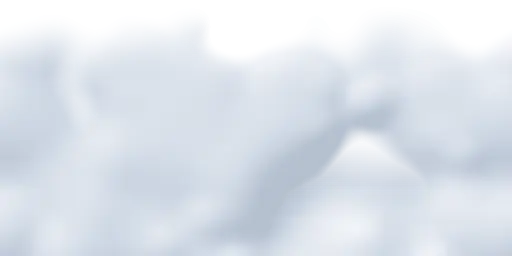
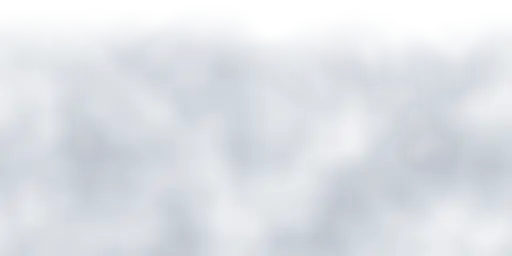
Путь: туман — серый клубящийся дым как в PvZ, без бугорков, в обеих темах

diff --git a/SPEC.md b/SPEC.md
@@ -339,7 +339,7 @@
 - 2026-10-19 — Звук нижних вкладок — по отпусканию пальца (pointerup), а не по click: вкладка переключается при касании, и iPhone иногда не присылал click (звука не было на «Пути», «Словах», «Профиле»). В форме слова клавиша клавиатуры — синяя галочка «Готово», она убирает клавиатуру (как в форме колоды); подсказка «Автозаполнить контакт» выключена.
 - 2026-10-19 — «Пары» — после того как в уроке встретились 5 разных слов, не раньше 60% урока; слова — только из этого урока. Точность в итоге — только по заданиям с оценкой FSRS; серия «N ПОДРЯД» считает и лёгкое задание.
 - 2026-10-19 — Путь (этап 7), решение владельца: **сначала повторения, потом новые** (как в Anki, чтобы не копились долги). Пока есть повторения к сроку (повторения на сегодня в пределах лимита и слова в обучении, чьё время пришло), новые слова узла не открываются: всплывашка текущего узла пишет «Сначала повтори N слов» и даёт кнопку «ПОВТОРИТЬ». Когда сделаны — урок узла: его новые слова первыми, повторения — на оставшееся место урока. В уроке узла новые слова идут в самом начале. Покрыто тестами (`src/srs/srs.test.ts`).
-- 2026-10-19 — Состояние узла пути считается по словам (`src/game/path.ts`), отдельно не хранится: пройден — у всех слов узла есть первая оценка; освоен — у всех стабильность ≥ 21 дня; текущий — первый непройденный во всём пути; остальные непройденные закрыты, пройденные после текущего остаются пройденными. Замороженные и удалённые слова в узлы не входят. Сундук — после каждого 3-го узла колоды, 10–20 💎, открытые записаны в профиле (`chestsClaimed`, ключ «колода:номер»); схема базы и бэкапа не меняется. Исчерпан дневной лимит новых — «Новые слова — завтра»; кнопка «+5 новых» — на этапе 8 вместе с экраном 6.5. Полоса сверху (🔥, 💎, кольцо цели) — этап 8. Временная кнопка «УЧИТЬ» убрана. Узлы нарезаются по текущему порядку слов: если удалить или заморозить слово из раннего узла, слова сдвигаются и узел может снова стать текущим (сундуки и прогресс слов от этого не теряются). По проверке владельца на iPhone (путь из 1–2 уроков выглядел «непонятно», сундука и кристаллов не было видно): кружки соединены дорожкой (пройденное — сплошная линия цвета колоды, впереди — точки); в конце каждого раздела — места будущих уроков «+» (нажатие — «добавь слова») и закрытый сундук-цель, так что сундук виден с первого урока; счётчик 💎 — в шапке «Пути» уже сейчас (полная полоса — этап 8). Третий заход по виду (по просьбе владельца «красивее» и «что будет при 500 уроках»): широкая тропинка, сочные узлы с бликом и сиянием, прилипающая плашка раздела, искорки; пройденные колоды выше текущей сворачиваются в плитку, над текущим — не больше 6 мест («Показать ещё»), под ним — 2 места и туман (идея владельца: пушистые облака как в Clash of Clans, без размытия и без текста; когда путь открывается — облака разъезжаются), кнопка «к текущему»; в конце раздела — один «+» и сундук-цель с номером урока. Логика окна — `src/game/pathView.ts` с тестами. Туман переделан по образцу владельца (`references/туман-PvZ.jpg`): облака-кружки убраны; клубящийся дым — готовые картинки WebP из шума (`npm run fog`), тянется до низа экрана без обрыва, «резинка» внизу пути выключена, край отступает после урока. Сундук открывается в момент касания (крышка, «+N 💎», звук), запись — следом; если записать не вышло — сундук снова закрыт, награды нет.
+- 2026-10-19 — Состояние узла пути считается по словам (`src/game/path.ts`), отдельно не хранится: пройден — у всех слов узла есть первая оценка; освоен — у всех стабильность ≥ 21 дня; текущий — первый непройденный во всём пути; остальные непройденные закрыты, пройденные после текущего остаются пройденными. Замороженные и удалённые слова в узлы не входят. Сундук — после каждого 3-го узла колоды, 10–20 💎, открытые записаны в профиле (`chestsClaimed`, ключ «колода:номер»); схема базы и бэкапа не меняется. Исчерпан дневной лимит новых — «Новые слова — завтра»; кнопка «+5 новых» — на этапе 8 вместе с экраном 6.5. Полоса сверху (🔥, 💎, кольцо цели) — этап 8. Временная кнопка «УЧИТЬ» убрана. Узлы нарезаются по текущему порядку слов: если удалить или заморозить слово из раннего узла, слова сдвигаются и узел может снова стать текущим (сундуки и прогресс слов от этого не теряются). По проверке владельца на iPhone (путь из 1–2 уроков выглядел «непонятно», сундука и кристаллов не было видно): кружки соединены дорожкой (пройденное — сплошная линия цвета колоды, впереди — точки); в конце каждого раздела — места будущих уроков «+» (нажатие — «добавь слова») и закрытый сундук-цель, так что сундук виден с первого урока; счётчик 💎 — в шапке «Пути» уже сейчас (полная полоса — этап 8). Третий заход по виду (по просьбе владельца «красивее» и «что будет при 500 уроках»): широкая тропинка, сочные узлы с бликом и сиянием, прилипающая плашка раздела, искорки; пройденные колоды выше текущей сворачиваются в плитку, над текущим — не больше 6 мест («Показать ещё»), под ним — 2 места и туман (идея владельца: пушистые облака как в Clash of Clans, без размытия и без текста; когда путь открывается — облака разъезжаются), кнопка «к текущему»; в конце раздела — один «+» и сундук-цель с номером урока. Логика окна — `src/game/pathView.ts` с тестами. Туман переделан по образцу владельца (`references/туман-PvZ.jpg`): облака-кружки убраны; по его отзыву — серый дым в обеих темах (в тёмной не тёмно-синий), без мелких бугорков; клубящийся дым — готовые картинки WebP из шума (`npm run fog`), тянется до низа экрана без обрыва, «резинка» внизу пути выключена, край отступает после урока. Сундук открывается в момент касания (крышка, «+N 💎», звук), запись — следом; если записать не вышло — сундук снова закрыт, награды нет.
 - 2026-10-18 — Напоминание о бэкапе: плашка в Профиле, пока копии нет или она старше 7 дней (и есть хотя бы одно слово); после урока — та же плашка на итоге, не чаще раза в неделю (отметка `backupNudgeAt` в профиле).
 
 ---

diff --git a/DESIGN.md b/DESIGN.md
@@ -81,7 +81,7 @@ Nunito (`@fontsource/nunito`). Заголовки 900, подзаголовки 
 - **Дорожка пути**: места (узлы, сундуки, «+») — столбиком по центру с шагом 108 (у текущего — 160, сверху место под «НАЧАТЬ»), со сдвигом вбок по волне 0 → 44 → 70 → 44 → 0 → −44 → −70 → −44 (в чётных разделах — зеркально). Под местами — широкая мягкая тропинка 30 px с круглыми концами, плавные изгибы (выход и вход вертикально): до мест, куда путь дошёл, — цвет колоды 35%, дальше — `--c-road` 70%. На свободной стороне волны — маскот 96 у 3-го видимого места и мерцающие искорки (четырёхлучевые звёздочки 20 и 12 `--c-xp`, масштаб и поворот, 2,6 с).
 - **Окно пути** (чтобы при сотнях уроков путь занимал 1–2 экрана): пройденные колоды выше текущей — «Свёрнутый раздел»; в разделе с текущим узлом над ним — не больше 6 мест, выше — текстовая кнопка «Показать ещё N пройденных уроков»; под текущим — 2 места ясно и ещё 2 под туманом, дальше путь не рисуется. Развёрнутый раздел — текстовая кнопка «Свернуть раздел» под ним.
 - **Свёрнутый раздел**: плитка `--c-bg`, рамка 2 px и нижняя тень 4 px `--c-border`, скругление 16, отступы 12/16; слева круг 44 цвета колоды (тень 3 px её цвета-тени) с галочкой; название с эмодзи 17/800, строка 13/700 `--c-text-muted` «Раздел 1 · 12 уроков · 👑 4»; справа шеврон вниз 24 `--c-text-muted`. Нажатие — `press-3d`, разворачивает раздел.
-- **Туман пути** (образец — `references/туман-PvZ.jpg`, туман из Plants vs Zombies, в нашем стиле): мягкий клубящийся дым — светлые пухлые клубы, освещённые сверху-слева, и тени в провалах между ними; край рваный, полупрозрачный и плавно растворяется (сквозь него чуть проглядывает путь), ниже — плотно. Без текста. Это **готовые картинки** WebP (плитка 512 px: край 512×256, сплошной дым 512×512, завитки 512×220 — для светлой и тёмной темы), их один раз рисует программа `npm run fog` (`scripts/gen-fog.mjs`) из сотен мягких клубов; в приложении нет живых фильтров, размытия и backdrop-filter. Светлая тема — белые клубы с серо-голубыми провалами, тёмная — тёмно-синий дым. Плотный дым начинается у первого места под туманом (2 места под текущим) и тянется до самого низа списка (список не короче экрана), прокрутка в него упирается: можно долистать ~треть экрана, «резинки» внизу нет — обрыва не видно. Клубится медленно и едва заметно: основной слой едет вбок на одну плитку за 90 с, завитки — в другую сторону за 60 с и покачиваются на 8 px (7 с) — только transform. Прошёл урок — край плавно отступает вниз на новое место (сдвиг со старого места, 1,4 с, `cubic-bezier(0.22, 1, 0.36, 1)`). Касания проходят сквозь туман. При «Уменьшении движения» дым неподвижен и край встаёт сразу.
+- **Туман пути** (образец — `references/туман-PvZ.jpg`, туман из Plants vs Zombies): мягкий серый клубящийся дым — крупные мягкие клубы (без мелких бугорков и бликов — иначе «пупырышки») и дымчатые разводы; свет мягкий, сверху; край неровный, полупрозрачный и плавно растворяется (сквозь него чуть проглядывает путь), ниже — плотно. Без текста. Цвет — серый, как в образце: светлая тема — белёсо-серый (тень `#9EA5B0`, середина `#CDD2DA`, свет `#FAFBFC`), тёмная — серый, светлее фона, но приглушённый (`#585E68`, `#848B95`, `#BEC3CA`). Это **готовые картинки** WebP (плитка 512 px: край 512×256, сплошной дым 512×512, струйки 512×220, для каждой темы), их один раз рисует программа `npm run fog` (`scripts/gen-fog.mjs`); в приложении нет живых фильтров, размытия и backdrop-filter. Плотный дым начинается у первого места под туманом (2 места под текущим) и тянется до самого низа списка (список не короче экрана), прокрутка в него упирается: можно долистать ~треть экрана, «резинки» внизу нет — обрыва не видно. Клубится медленно и едва заметно: основной слой едет вбок на одну плитку за 90 с, струйки — в другую сторону за 60 с и покачиваются на 8 px (7 с) — только transform. Прошёл урок — край плавно отступает вниз на новое место (сдвиг со старого места, 1,4 с, `cubic-bezier(0.22, 1, 0.36, 1)`). Касания проходят сквозь туман. При «Уменьшении движения» дым неподвижен и край встаёт сразу.
 - **Место будущего урока** («+»): одно в конце раздела, круг 72 с пунктирной рамкой 3 px `--c-road`, фон `--c-bg`, плюс 30 `--c-text-muted`, нажатие `press-soft`; всплывашка «Новый урок» — «Добавь слова в «Фрукты» — каждые 5 слов становятся уроком» и основная «ДОБАВИТЬ СЛОВА» (открывает колоду). За ним — ближайший сундук-цель (закрытый).
 - **Счётчик кристаллов** (шапка «Пути», до полосы этапа 8): «Чип в шапке» — кристалл `--c-gem` и число; тап — всплывашка «Кристаллы: 19 💎» и за что даются.
 - **Раздел пути** (плашка колоды): карточка цвета колоды, скругление 16, нижняя тень 4 px её цвета-тени, отступы 16, между разделами 24. Слева: строка 13/900 заглавными «РАЗДЕЛ 1» и под ней название 20/900 с эмодзи — текст `--c-on-color`. Справа кнопка 44 (скругление 12, фон — цвет-тень колоды, книга 24 `--c-on-color`, `press-soft`) — открывает слова колоды.
